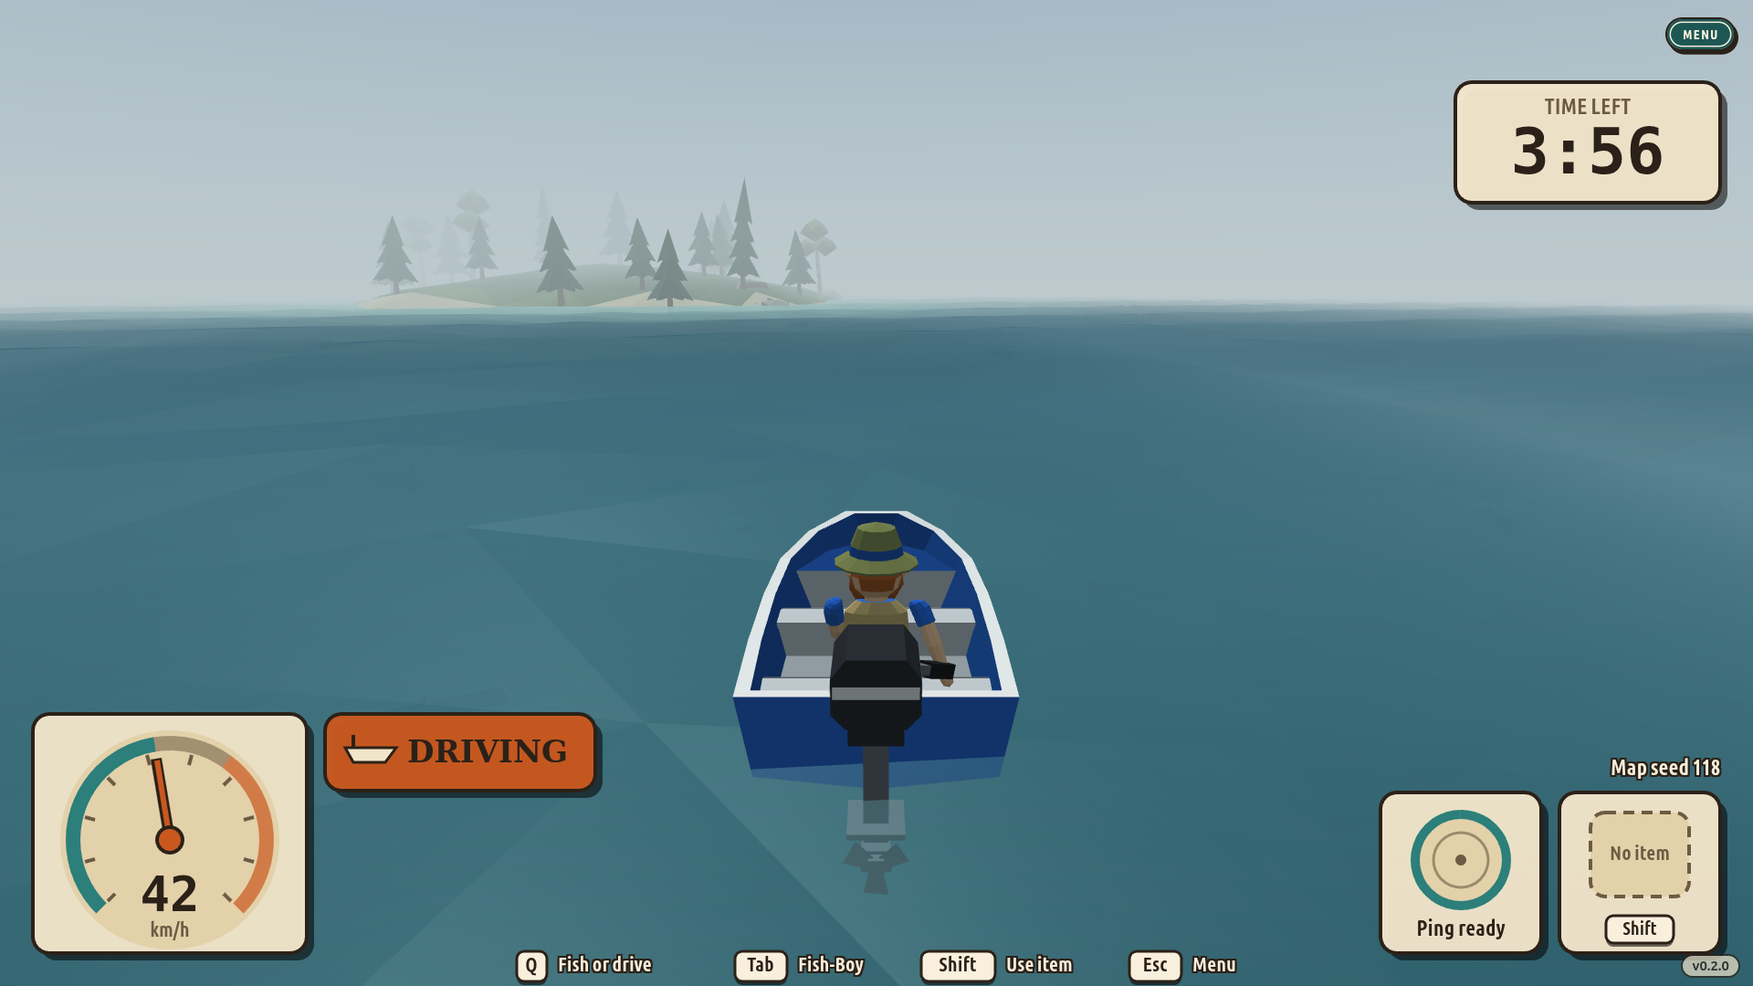
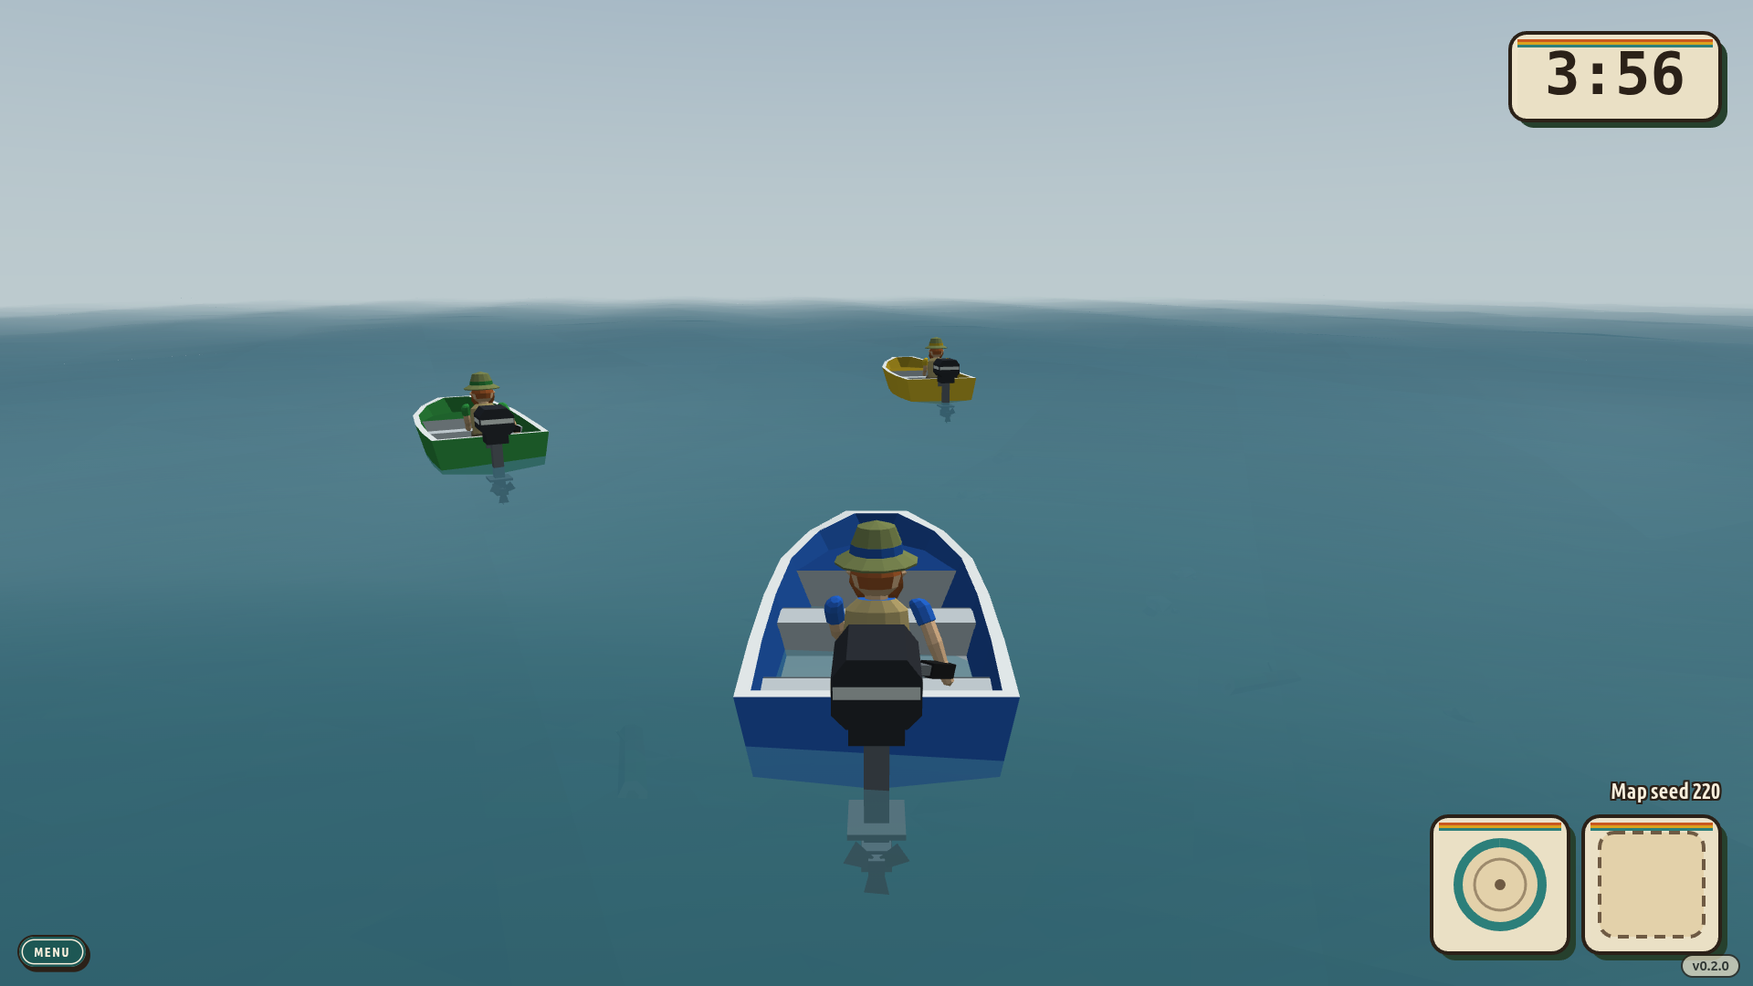
Retro look stage 2: magazine HUD cards, popups, postgame and minigame frames; page scan skips PNGs

diff --git a/web/style.css b/web/style.css
@@ -39,10 +39,8 @@
   --book: "Charter", "Bitstream Charter", "Iowan Old Style", "Cambria", "DejaVu Serif", serif;
   /* the triple stripe, top to bottom */
   --stripes: linear-gradient(180deg, var(--orange) 0 33.4%, var(--mustard) 33.4% 66.7%, var(--teal) 66.7%);
-  /* a dot screen, and the paper's worn grain */
+  /* a dot screen, for small accents in a corner */
   --dots: radial-gradient(circle, var(--orange) 0 30%, transparent 34%);
-  --grain: radial-gradient(ellipse at 18% 8%, rgba(255, 255, 255, 0.45), transparent 55%),
-    radial-gradient(ellipse at 90% 100%, rgba(150, 110, 60, 0.16), transparent 60%);
   --keyline: 0.14rem;
   --radius: 1rem;
   /* a solid offset shadow in forest green: the print's second plate */
@@ -103,7 +101,7 @@ body {
   position: relative;
   isolation: isolate;
   overflow: hidden;
-  background: var(--grain), var(--paper);
+  background: var(--paper);
   border: var(--keyline) solid var(--ink);
   border-radius: var(--radius);
   box-shadow: var(--lift);
@@ -373,7 +371,7 @@ tr.tone-yellow { --seat: var(--seat-yellow); }
   cursor: pointer;
   z-index: 2;
 }
-body[data-backdrop="on"] #version {
+body[data-backdrop="on"]:not([data-screen="minigames"]) #version {
   right: 1.4rem;
   bottom: 1.2rem;
   width: 5.2rem;
@@ -420,7 +418,7 @@ body[data-screen="title"] .panel.menu .button[id="menu.play"] { font: 800 2.1rem
   align-items: center;
   gap: 0.55rem;
   padding: 0.75rem 1rem 0.95rem;
-  background: var(--grain), var(--paper-shade);
+  background: var(--paper-shade);
   box-shadow: 0.3rem 0.35rem 0 var(--forest);
 }
 .panel.workshop::before,
@@ -575,7 +573,7 @@ body[data-screen="lake"] #menus {
   padding: 0 0.6rem 0.7rem 0;
 }
 .panel.gallery,
-.panel.lake { background: var(--grain), color-mix(in srgb, var(--panel) 94%, transparent); }
+.panel.lake { background: color-mix(in srgb, var(--panel) 94%, transparent); }
 .panel.gallery h2,
 .panel.lake h2 { font-size: 1.5rem; }
 .panel.gallery .field,
@@ -609,7 +607,7 @@ body[data-screen="play"] .panel { pointer-events: auto; }
 body[data-screen="minigames"] #scene,
 body[data-screen="minigames"] #overlay { display: block; }
 body[data-screen="minigames"] #menus { position: relative; }
-.panel.minigames { background: var(--grain), color-mix(in srgb, var(--panel) 96%, transparent); }
+.panel.minigames { background: color-mix(in srgb, var(--panel) 96%, transparent); }
 .panel.minigames .button { font-size: 1.05rem; padding: 0.5rem 1rem; }
 body[data-cursor="none"] #overlay { cursor: none; }
 /* ---- the Sounds screen: a grid of sound buttons, then the loops ---- */
@@ -621,7 +619,7 @@ body[data-screen="sounds"] #menus { max-width: 64rem; }
 .panel.sounds h2, .panel.sounds .sub { grid-column: 1 / -1; }
 .panel.sounds .button { font-size: 0.95rem; padding: 0.45rem 0.7rem; }
 .panel.gallery-more {
-  background: var(--grain), color-mix(in srgb, var(--panel) 94%, transparent);
+  background: color-mix(in srgb, var(--panel) 94%, transparent);
   padding: 0.6rem 0.85rem;
   flex-direction: row;
   flex-wrap: wrap;
@@ -630,9 +628,13 @@ body[data-screen="sounds"] #menus { max-width: 64rem; }
 .panel.gallery-more::before { content: none; }
 
 /* ---- the match flow (crates/core/src/flow/): the HUD is drawn on the 2D
-   layer; the panel keeps only the Menu button, small in the top-right
-   corner above the time box ---- */
+   layer; the panel keeps only the Menu button, small in the bottom-left
+   corner, clear of the time box at the top right ---- */
 body[data-screen="play"] .panel.hud {
+  top: auto;
+  right: auto;
+  bottom: 1rem;
+  left: 1rem;
   width: auto;
   padding: 0;
   background: none;

diff --git a/crates/core/src/flow/hud.rs b/crates/core/src/flow/hud.rs
@@ -39,12 +39,12 @@ pub fn rgb(c: [i32; 3]) -> Rgba {
 
 /// A HUD card, a box from the magazine: its offset shadow, its paper
 /// and keyline, the triple stripe across its top and a dot screen fading
-/// into its bottom-right corner (`flow/print.rs`).
+/// into its bottom-right corner (`flow/magazine.rs`).
 pub fn card(list: &mut List, k: &CardLook, r: Rect) {
     card_in(list, k, r, k.fill, k.outline);
     // clear of the rounded corners at the stripe's depth
     let inset = k.outline_w / 2 + k.radius / 3;
-    super::print::stripes(
+    super::magazine::stripes(
         list,
         &k.stripes,
         r.x + inset,
@@ -52,14 +52,16 @@ pub fn card(list: &mut List, k: &CardLook, r: Rect) {
         r.w - 2 * inset,
         k.stripe_h,
     );
-    super::print::dot_corner(
-        list,
-        rgb(k.dots).alpha(k.dots_pct),
-        r.inset(k.outline_w + 4),
-        r.w * k.dots_w_pct / 100,
-        r.h * k.dots_h_pct / 100,
-        k.dot_step,
-    );
+    if k.dots_pct > 0 {
+        super::magazine::dot_corner(
+            list,
+            rgb(k.dots).alpha(k.dots_pct),
+            r.inset(k.outline_w + 4),
+            r.w * k.dots_w_pct / 100,
+            r.h * k.dots_h_pct / 100,
+            k.dot_step,
+        );
+    }
 }
 
 /// A plain box in `fill`: the offset shadow, the fill and the keyline.
@@ -324,7 +326,8 @@ impl App {
         } else {
             l.card.ink
         };
-        let mono = self.fishboy.theme.as_ref().map_or(l.display(), |t| t.mono());
+        // numbers in the magazine's slab, not the Fish-Boy's monospace
+        let mono = l.display();
         list.text(
             rgb(ink),
             mono,
@@ -443,7 +446,8 @@ impl App {
             PingState::Sweeping(_) => list.line(rgb(colour), 5, c, polar(c, 44, to)),
             PingState::Cooling(left, _) => {
                 let secs = ((left * TICK_MS as i64 + 999) / 1000).to_string();
-                let mono = self.fishboy.theme.as_ref().map_or(l.display(), |t| t.mono());
+                // numbers in the magazine's slab, not the Fish-Boy's monospace
+                let mono = l.display();
                 list.text(rgb(l.card.ink), mono, 34, Align::Centre, c, &secs);
             }
             PingState::Ready => list.circle(rgb(h.gauge_tick), Rgba::NONE, 0, c, 6),
@@ -533,7 +537,7 @@ fn popup(list: &mut List, l: &FlowLook, theme: &Theme, pop: &Popup, y: i32, tier
     let size = 36;
     let h = 78;
     let badge = tier.filter(|_| tier_look.is_some());
-    let badge_w = badge.as_ref().map_or(0, |w| l.display().width(w, 24) + 34);
+    let badge_w = badge.as_ref().map_or(0, |w| l.body().width(w, 26) + 44);
     let icon_w = if style.icon == "none" { 0 } else { 70 };
     let w = icon_w + font.width(&pop.text, size) + 60 + badge_w;
     let r = Rect::new((W - w) / 2, y, w, h);
@@ -579,8 +583,8 @@ fn popup(list: &mut List, l: &FlowLook, theme: &Theme, pop: &Popup, y: i32, tier
         list.round_rect(rgb(c), rgb(k.outline), 3, b, 8);
         list.text(
             rgb(k.outline),
-            l.display(),
-            24,
+            l.body(),
+            26,
             Align::Centre,
             (b.x + b.w / 2, mid + 1),
             &word,

diff --git a/crates/core/src/flow/screens.rs b/crates/core/src/flow/screens.rs
@@ -79,7 +79,7 @@ impl App {
                 rgb(l.card.outline),
                 Rect::new(x0 - 3, 80 - band / 2 - 3, x1 - x0 + 6, band + 6),
             );
-            super::print::stripes(list, &l.card.stripes, x0, 80 - band / 2, x1 - x0, each);
+            super::magazine::stripes(list, &l.card.stripes, x0, 80 - band / 2, x1 - x0, each);
         }
         let cols = &pg.reveal.columns;
         let n = cols.len().max(1) as i32;
@@ -176,7 +176,8 @@ impl App {
             (head_r.x + 58, head_r.y + 38),
             &c.name,
         );
-        let mono = self.fishboy.theme.as_ref().map_or(l.display(), |t| t.mono());
+        // numbers in the magazine's slab, not the Fish-Boy's monospace
+        let mono = l.display();
         list.text(
             rgb(l.card.ink),
             mono,
@@ -246,7 +247,8 @@ impl App {
             ((r.h * 45 / 100).min(26), (r.h * 38 / 100).min(20))
         };
         // the points at the right; the words shrink to fit beside them
-        let mono = self.fishboy.theme.as_ref().map_or(l.display(), |t| t.mono());
+        // numbers in the magazine's slab, not the Fish-Boy's monospace
+        let mono = l.display();
         let value = format!("+{}", f.value);
         let value_w = mono.width(&value, size + 4);
         list.text(
@@ -314,7 +316,8 @@ impl App {
             (W / 2, r.y + 64),
             &heading,
         );
-        let mono = self.fishboy.theme.as_ref().map_or(l.display(), |t| t.mono());
+        // numbers in the magazine's slab, not the Fish-Boy's monospace
+        let mono = l.display();
         for (i, (place, c)) in order.iter().enumerate() {
             let y = r.y + 130 + i as i32 * 92;
             let row = Rect::new(r.x + 30, y, w - 60, 78);

diff --git a/crates/core/src/minigame/mod.rs b/crates/core/src/minigame/mod.rs
@@ -405,7 +405,11 @@ impl Minigame {
         let mut p = Paint {
             list,
             look,
-            font: theme.mono(),
+            // the device keeps its monospace; full screen, the magazine's slab
+            font: match self.layer() {
+                Layer::FishBoy => theme.mono(),
+                Layer::Hud => theme.fonts.get("banner").unwrap_or(theme.mono()),
+            },
             t,
             canvas: self.canvas,
             pointer: self.pointer,
@@ -433,6 +437,18 @@ impl Minigame {
                 None => theme.fonts.get("banner").unwrap_or(theme.mono()),
             };
             self.draw_banner(&mut p, font, &instruction, device);
+        } else if self.layer() == Layer::Hud {
+            // full screen: the call on a paper label hung from the frame
+            let font = theme.fonts.get("banner").unwrap_or(theme.mono());
+            frame::label(
+                p.list,
+                &look.frame,
+                font,
+                look.text_size,
+                (w / 2, TOP_LINE),
+                &instruction,
+            );
+            self.draw_progress(&mut p);
         } else {
             p.list.text(
                 c(look.text),
@@ -514,7 +530,7 @@ impl Minigame {
             // the magazine's triple stripe in an ink keyline, above and
             // below; plain phosphor bars on the device
             if device.is_none() {
-                crate::flow::print::stripes(p.list, &f.stripes, 0, y, w, f.stripe_h);
+                crate::flow::magazine::stripes(p.list, &f.stripes, 0, y, w, f.stripe_h);
             }
         }
         let shadow = size / 16;

diff --git a/crates/core/src/minigame/frame.rs b/crates/core/src/minigame/frame.rs
@@ -4,7 +4,7 @@
 //! The Fish-Boy's minigames are the device's, so they keep its phosphor
 //! and get no frame. The look is `data/ui2d.json` `minigames.frame`.
 
-use crate::ui2d::{List, Rect, Rgba};
+use crate::ui2d::{Align, Font, List, Rect, Rgba};
 
 use super::look::FrameLook;
 
@@ -27,7 +27,7 @@ pub fn draw(list: &mut List, f: &FrameLook, canvas: [i32; 2]) {
     );
     // the triple stripe in the top border
     let band = f.stripe_h * f.stripes.len() as i32;
-    crate::flow::print::stripes(list, &f.stripes, 0, (b - band) / 2, w, f.stripe_h);
+    crate::flow::magazine::stripes(list, &f.stripes, 0, (b - band) / 2, w, f.stripe_h);
     // a dot screen in the bottom border's corners
     let dots = Rgba::solid(f.dots);
     for x in [b, w - b - f.dots_w] {
@@ -43,4 +43,21 @@ pub fn draw(list: &mut List, f: &FrameLook, canvas: [i32; 2]) {
             k += 1;
         }
     }
+}
+
+/// A call on a paper label centred at `at`: paper in the ink keyline,
+/// the words in ink.
+pub fn label(list: &mut List, f: &FrameLook, font: &Font, size: i32, at: (i32, i32), text: &str) {
+    let w = font.width(text, size) + size * 3 / 2;
+    let h = size * 17 / 10;
+    let r = Rect::new(at.0 - w / 2, at.1 - h / 2, w, h);
+    list.round_rect(Rgba::solid(f.paper), Rgba::solid(f.ink), f.keyline, r, f.radius);
+    list.text(
+        Rgba::solid(f.ink),
+        font,
+        size,
+        Align::Centre,
+        (at.0, at.1 + 2),
+        text,
+    );
 }

diff --git a/crates/core/tests/boundary.rs b/crates/core/tests/boundary.rs
@@ -655,8 +655,13 @@ fn files_under(dir: &Path) -> Vec<PathBuf> {
     out
 }
 
+/// The page's text files. Images (the tab icon's PNGs) hold no code and
+/// are not text, so they are not scanned; an SVG is text and is.
 fn web_files() -> Vec<PathBuf> {
     files_under(&repo_root().join("web"))
+        .into_iter()
+        .filter(|f| f.extension().is_none_or(|x| x != "png"))
+        .collect()
 }
 
 /// Scans a shader for numeric literals other than 0 and 1 (and 0.0, 1.0).

diff --git a/crates/core/src/flow/mod.rs b/crates/core/src/flow/mod.rs
@@ -29,9 +29,9 @@
 pub mod burst;
 pub mod hud;
 pub mod look;
+pub mod magazine;
 pub mod popups;
 pub mod postgame;
-pub mod print;
 pub mod screens;
 #[cfg(test)]
 mod tests;

diff --git a/SECOND-ORDER.md b/SECOND-ORDER.md
@@ -418,8 +418,14 @@ One row per assumption, surprise or open item. **Kind** is *divergence* (what wa
 | R6.60 | divergence | The menus and HUD keep the cream-and-honey cards (R5.73). | The person disliked them as samey (Builder's default style pack look) and chose a retro 1970s outdoors magazine (DECISIONS.md, 2026-10-18). | One palette everywhere: warm paper (#f1e5ca), ink brown (#2b2118), faded burnt orange (#c9581f), mustard (#d9a21e), teal (#2c7f7a), forest green (#26402d). Menus: paper boxes with the triple stripe (orange, mustard, teal) across the top, a dot screen fading into the bottom corner, a solid forest-green offset shadow; buttons solid orange (teal for Settings and What's New on the Title, paper for the ways out) with a paper keyline inside and small capitals; the version as a mustard roundel, the issue's corner flash. HUD, popups, postgame and minigames take the same colours from `data/flow.json` and `data/ui2d.json`. The Fish-Boy's own screens stay green phosphor; tier and player colours are unchanged. | `:root` in `web/style.css`; `data/flow.json`; `data/ui2d.json` `minigames`, `items` | done |
 | R6.61 | finding | A retro face needs a font file. | Off-origin fonts are refused (CSP) and a bundled file needs a licence. | System families only: headlines in a slab-serif stack (Rockwell, Roboto Slab, Clarendon, Bookman, falling back to DejaVu Serif), labels and buttons in a condensed stack (Bahnschrift SemiCondensed, Avenir Next Condensed, Roboto Condensed, Arial Narrow, Ubuntu Sans condensed), reading text in Charter. No font file, nothing for LICENSES.md. The canvas's condensed face is asked for as the weight "bold condensed". | `--slab`, `--cond`, `--book` in `web/style.css`; `fonts` in `data/flow.json`, `data/ui2d.json` | done |
 | R6.62 | finding | Capitals for labels and buttons could come from CSS `text-transform`. | The browser check reads the buttons' and headings' text as shown, so uppercase would change what it reads. | `font-variant-caps: all-small-caps` draws them as capitals and leaves the text as it is. | `web/style.css` | done |
-| R6.63 | divergence | The wordmark is honey round letters (R5.61). | The magazine look. | A masthead drawn as SVG by the agent: chunky slab capitals "HONEY HOLE" built from plain shapes, paper letters in an ink keyline with a double offset (orange, then teal), over the triple stripe that ends in a dot screen, with a worn-print speckle. | `data/wordmark.svg` | done |
+| R6.63 | divergence | The wordmark is honey round letters (R5.61). | The magazine look. | A masthead drawn as SVG by the agent: chunky slab capitals "HONEY HOLE" built from plain shapes, paper letters in an ink keyline with a double offset (orange, then teal), over the triple stripe that ends in a dot screen. A worn-print speckle was tried and taken out (the person: "looks bad"); the look is clean flat print. | `data/wordmark.svg` | done |
 | R6.64 | divergence | The tab has no icon. | The person asked for one. | `web/icon.svg`: a tall red-and-white bobber, pegs top and bottom, tipped 20°, on a mustard roundel in an ink ring; PNG fallbacks at 32 and 180 px rendered from it. A first draft (a round bobber split across the middle) read as a Poké Ball, as R5.61's did, and was redrawn tall. Linked from `index.html` and `nettest.html`, so the browser asks for no `/favicon.ico`. | `web/icon.svg`; `<link rel="icon">` in both pages | done |
+| R6.65 | divergence | The HUD's cards are outlined cream rounds (R3.113). | The magazine look on the 2D layer. | Every HUD card is a paper box with a solid forest-green offset shadow and the triple stripe across its top; popups are rounded boxes (not pills) with the tier's colour as an inner keyline and the tier's name on a tag in the condensed face; the time, the ping's seconds and the postgame's points are in the slab face, not the Fish-Boy's monospace. The dot screen was drawn in the HUD cards' corners too and read as texture at that size, so it is off there (`card.dots_pct` 0) and stays only as a small accent in the menus' boxes and the minigames' frame. | `card`, `card_in`, `popup` in `flow/hud.rs`; `flow/magazine.rs`; `data/flow.json` `card` | done |
+| R6.66 | divergence | The postgame is cards on a dark wash. | The magazine look. | "Results" between two triple-stripe rules; each player's head has their colour as a band across its top; the ranking box carries the stripe; the wash is forest green. | `postgame_ui2d`, `draw_column` in `flow/screens.rs` | done |
+| R6.67 | divergence | A full-screen minigame fills the view edge to edge. | The person asked for the minigames' frames in the magazine look. | Power Reel, Nitrous, Teleporter and the camera's minigame sit in a paper frame with an ink keyline, the triple stripe along its top and a few dots in its bottom corners; the call hangs from the frame on a paper label in the slab face, and the minigames' own labels use the slab too. The start banner is mustard, edged above and below by the triple stripe. Cloaking Tech and Enhanced Radar are on the Fish-Boy: no frame, their monospace, and a phosphor banner (the device, not the magazine). | `minigame/frame.rs`; `draw`, `draw_banner` in `minigame/mod.rs`; `data/ui2d.json` `minigames.frame` | done |
+| R6.68 | finding | The Menu button sat over the time card. | The KISS pass moved the time to the top right, under the Menu button. | The Menu button moved to the bottom-left corner, which the speed gauge left empty. | `body[data-screen="play"] .panel.hud` in `web/style.css` | done |
+| R6.69 | worklist | The magazine look is right. | It is the agent's reading of "retro outdoors magazine". | The person looks at `notes/shots/retro/` (title, settings, New match, the online lobby, the HUD, a hook popup, the postgame's reveal and ranking, a minigame and its banner) and says what to change: colours in `web/style.css` `:root` and `data/flow.json` / `data/ui2d.json`, the masthead in `data/wordmark.svg`. |  | person |
+| R6.70 | finding | The page scan reads every file under `web/` as text. | The tab icon's PNGs are not UTF-8, so `page_keeps_no_rule_and_names_no_other_origin` stopped with "stream did not contain valid UTF-8" (the browser check passed, so this showed only in `cargo test`). | The scan skips `.png` files: an image holds no page code. SVGs are text and are still scanned. Also, `print` is a banned I/O name in the core, so the magazine's helpers are `flow/magazine.rs`. | `web_files` in `crates/core/tests/boundary.rs` | done |
 | R5.30 | divergence | The AI's item hook (`ai::items::decide`) would be filled in later from the match as it stood. | The AI may know only what its seat sees. Its items show in its HUD (the slot, the effect timers, the camera's offer), its radar (the buoy at all times, an Enhanced Radar's marks) and the minigame on its screen. | `Senses::items` (`ItemsSeen`): the item held, the minigame and its screen, a teleport's choice or charge, the offer, the effects running, its marks, the buoy, its last catch's tier and the time left. A new goal, `Goal::Buoy`. | `crates/core/src/ai/senses.rs`; `ai/items.rs` | done |
 | R5.31 | divergence | R4.11 could stay open: the Power Reel was best used before the hook. | A minigame takes the keys, so the reel fought on with no Space and the line could break. Refusing the Power Reel while reeling would push it before the cast, where its 20 s run out during the cast, the sink and the nibbles. | The fix: **the reel holds still while any item's minigame plays, or a teleport's spot is picked.** The catch zone, the fish's marker and the meter wait and pick up where they were; a ram still snaps the line. It costs the seconds the minigame takes, with a rival maybe coming, and gains nothing else. The Fish-Boy raised with Tab still leaves the reel fighting (V23, unchanged). `items.reel_holds_in_minigame` false gives the game as before. | `Fishing::reel_held` (set by `Match::items_step`); `a_minigame_holds_the_reel_still_until_it_ends` | person |
 | R5.32 | finding | The AI could read the minigames' state to play them. | Their state holds things a person can't see (the Enhanced Radar's sweet spots). | `Minigame::sight` gives the screen as plain values: the reel's middle, the boat's cells still drawn, the free atoms and their motion, each circle and when its ring meets it, the flying fish, each slider's knob and how blurred it leaves the picture. The sweet spots are not in it: the hand finds them by sliding each knob and watching the blur. Small accessors were added to the minigames for it. | `crates/core/src/minigame/sight.rs` | done |

diff --git a/PLAN.md b/PLAN.md
@@ -93,6 +93,7 @@ Collected as the agent makes them; brought up in the morning. Each also has a ro
 - V53. The AI and items (`data/tuning.json` `ai.items`): a buoy worth a trip of up to 15 s (6 s holding an item), never with a fish at the lure or on the line; the Power Reel at the hook of a rare or legendary; Cloaking Tech before the cast at one, or on a hunt 100 m off; Nitrous on drives of 400 m or more and hunts of 120 m or more; the Teleporter toward a far hunt, a far marked fish, or after 60 s held, far water; the camera for rare and legendary catches (any in the last 45 s); Enhanced Radar after 8 s exploring with no fish in sight. Each difficulty's hand on the minigames: 1400 / 2400 / 3800 units a second, 450 / 250 / 120 ms pauses, aim 26 / 14 / 6 units, ring timing 240 / 130 / 60 ms, the reel at 0.9 / 1.6 / 2.6 turns a second (SECOND-ORDER R5.33 to R5.38).
 - V54. Items in AI playtests (`notes/playtests.md`, "Results with items"): the camera is clearly the strongest (+78 points a use), the Power Reel good (+40), Enhanced Radar a small plus, and Nitrous, the Teleporter and Cloaking Tech worth about nothing, because the boat coasts through their 4 to 15 s minigames. Items widen the winner's margin from 21% to 30%. No item weight or duration was changed. To choose: let the boat keep its throttle and course during a full-screen minigame (a rule), a shorter Nitrous minigame, or the camera's weight 10 to 6 (SECOND-ORDER R5.39, R5.40).
 - V-perf. The AI runs at most one path search a tick between all its players (`ai.path_searches_per_tick`; a player waits a tick or two on its old path); MSAA stays on, though an edge-smoothing setting would help weaker machines (SECOND-ORDER R6.3, R6.12).
+- V-retro. The retro outdoors magazine look (SECOND-ORDER R6.60 to R6.69; shots in `notes/shots/retro/`): paper, ink brown, burnt orange, mustard, teal and forest green; slab-serif headlines and condensed capitals from system fonts; the triple stripe on every box, the HUD's cards and the minigames' frames; the HONEY HOLE masthead; the version as a mustard roundel; the tab icon a bobber on a mustard roundel. The Fish-Boy stays green phosphor.
 
 ## Status
 
